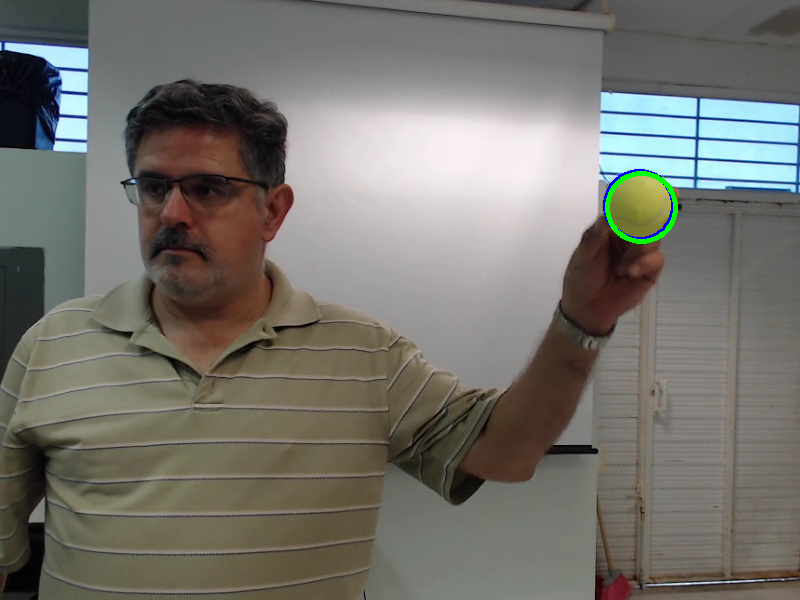
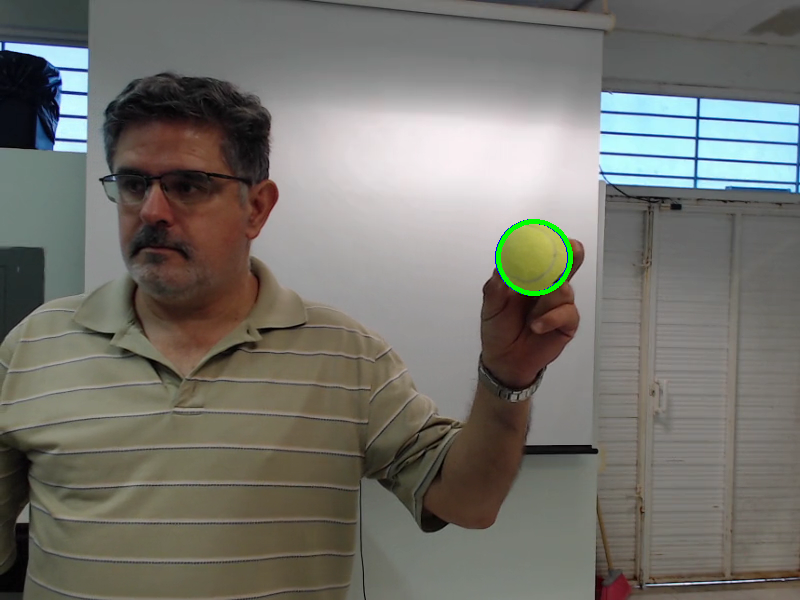
feat: included Z in KF as att

Changed region(s): [[0.0, 0.12, 0.875, 1.0]]

diff --git a/practice5-ball_tracking/practice5/lib/dayan/BallTrackingKalmanFilterExtendedImplicit.h b/practice5-ball_tracking/practice5/lib/dayan/BallTrackingKalmanFilterExtendedImplicit.h
@@ -5,12 +5,115 @@
 #ifndef BALLTRACKINGKALMANFILTEREXTENDEDIMPLICIT_H
 #define BALLTRACKINGKALMANFILTEREXTENDEDIMPLICIT_H
 
+#include "opencv2/opencv.hpp"
+#include "Config.h"
+#include "KalmanFilterExtendedImplicit.h"
+
 namespace dayan
 {
 
-	class BallTrackingKalmanFilterExtendedImplicit
+	class BallTrackingKalmanFilterExtendedImplicit : public KalmanFilterExtendedImplicit
 	{
+	public:
+		// Constructor
+		BallTrackingKalmanFilterExtendedImplicit()
+		{
+			Q = (cv::Mat_<float>(6, 6)
+				<<
+				1e-4, 0, 0, 0, 0, 0,
+				0, 1e-4, 0, 0, 0, 0,
+				0, 0, 1e-4, 0, 0, 0,
+				0, 0, 0, 1e-4, 0, 0,
+				0, 0, 0, 0, 1e-4, 0,
+				0, 0, 0, 0, 0, 1e-4
+			);
+			R = (cv::Mat_<float>(5, 5)
+				<<
+				10, 0, 0, 0, 0,
+				0, 10, 0, 0, 0,
+				0, 0, 10, 0, 0,
+				0, 0, 0, 10, 0,
+				0, 0, 0, 0, 10
+			);
+			P = (cv::Mat_<float>(6, 6)
+				<<
+				.1, 0, 0, 0, 0, 0,
+				0, .1, 0, 0, 0, 0,
+				0, 0, .1, 0, 0, 0,
+				0, 0, 0, .1, 0, 0,
+				0, 0, 0, 0, .1, 0,
+				0, 0, 0, 0, 0, .1
+			);
+		}
 
+		// Inicializa el primer estado a partir de la primera medida
+		void init_X() override
+		{
+			auto config = dayan::Config::getInstance();
+
+			auto x = this->Z.at<float>(0);
+			auto y = this->Z.at<float>(1);
+			auto r = this->Z.at<float>(4);
+
+			auto Z = config->radio / r;
+			auto X = x * Z;
+			auto Y = y * Z;
+
+			this->X = (cv::Mat_<float>(6, 1)
+				<<
+				X,
+				Y,
+				Z,
+				0,
+				0,
+				0
+			);
+		}
+		// Update Matrix A
+		void update_A(const int& dt) override
+		{
+			A = (cv::Mat_<float>(6, 6)
+				<<
+				1, 0, 0, dt, 0, 0,
+				0, 1, 0, 0, dt, 0,
+				0, 0, 1, 0, 0, dt,
+				0, 0, 0, 1, 0, 0,
+				0, 0, 0, 0, 1, 0,
+				0, 0, 0, 0, 0, 1
+			);
+		}
+	protected:
+		void update_h_H() override
+		{
+			auto config = dayan::Config::getInstance();
+
+			float X = this->Xp.at<float>(0);
+			float Y = this->Xp.at<float>(1);
+			float Z = this->Xp.at<float>(2);
+			float Xp = this->Xp.at<float>(3);
+			float Yp = this->Xp.at<float>(4);
+			float Zp = this->Xp.at<float>(5);
+
+			h = (cv::Mat_<float>(5, 1)
+				<<
+				X / Z,
+				Y / Z,
+				(Xp + (X / Z) * Zp) / Z,
+				(Yp + (Y / Z) * Zp) / Z,
+				config->radio / Z
+			);
+			auto Z2 = Z * Z;
+			auto Z3 = Z2 * Z;
+			auto Zp_Z2 = Zp / Z2;
+			H = (cv::Mat_<float>(5, 6)
+				<<
+				1 / Z, 0, -X / Z2, 0, 0, 0,
+				0, 1 / Z, -Y / Z2, 0, 0, 0,
+				Zp_Z2, 0, Xp / Z2 - 2 * (X * Zp + Z * Xp) / Z3, 1 / Z, 0, X / Z2,
+				0, Zp_Z2, Yp / Z2 - 2 * (Y * Zp + Z * Yp) / Z3, 0, 1 / Z, Y / Z2,
+				0, 0, -config->radio / Z2, 0, 0, 0
+			);
+		}
 	};
 
 } // dayan

diff --git a/practice5-ball_tracking/practice5/SegColorLab.cpp b/practice5-ball_tracking/practice5/SegColorLab.cpp
@@ -4,10 +4,11 @@
 #include "opencv2/opencv.hpp"
 #include "lib/arturo/functions.h"
 #include "lib/arturo/Circle/Circle.h"
-//#include "lib/dayan/tools.h"
+#include "lib/dayan/tools.h"
 #include "lib/dayan/Config.h"
 #include "lib/dayan/functions.h"
 #include "lib/dayan/BallTrackingKalmanFilterExtended.h"
+#include "lib/dayan/BallTrackingKalmanFilterExtendedImplicit.h"
 
 
 int main(int argc, char** argv)
@@ -45,6 +46,7 @@ int main(int argc, char** argv)
 
 	// KalmanFilter
 	dayan::BallTrackingKalmanFilterExtended kalmanFilter;
+//	dayan::BallTrackingKalmanFilterExtendedImplicit kalmanFilter;
 
 	int dt = 0;
 	int frameCount = -1;
@@ -58,8 +60,6 @@ int main(int argc, char** argv)
 
 		dt += config->dTimes[frameCount];
 		std::cout << "dt: " << dt << std::endl;
-		// Update Matrix A
-		kalmanFilter.update_A(dt);
 
 		// In the first iteration we initialize the images that we will use to store results.
 		if (0 == frameCount)
@@ -77,7 +77,6 @@ int main(int argc, char** argv)
 			arturo::convertLab(inputFrame, inputFrameLab);
 		}
 		Circle* c = nullptr;
-		cv::Mat Z;
 //		std::cout << "\033[1;32m" << "umDistVal: " << umDist.val << "\033[0m" << std::endl;
 //		std::cout << "\033[1;32m" << "umLuz.val: " << umLuz.val << "\033[0m" << std::endl;
 		dayan::makeMeasurement(
@@ -90,7 +89,7 @@ int main(int argc, char** argv)
 			contourPointMinCount,
 			error,
 			c,
-			Z,
+			kalmanFilter.Z,
 			dt
 		);
 		if (nullptr == c)
@@ -100,16 +99,15 @@ int main(int argc, char** argv)
 		}
 		//dayan::printMat(Z, "Z");
 		//dayan::drawCircle(inputFrame, c);
-		dayan::drawCircleByZ(inputFrame, Z, cv::Scalar(255, 0, 0));
+		dayan::drawCircleByZ(inputFrame, kalmanFilter.Z, cv::Scalar(255, 0, 0));
 
 		if (0 == frameCount)
 		{
-			kalmanFilter.init_X(Z);
-			//dayan::getX(Z, kalmanFilter.X);
+			kalmanFilter.init_X();
 		}
 		else
 		{
-			kalmanFilter.predict_correct(Z);
+			kalmanFilter.predict_correct(dt);
 //			dayan::printMat(kalmanFilter.X, "corrected");
 //			dayan::printMat(kalmanFilter.Xp, "predicted");
 			// predicted color red

diff --git a/practice5-ball_tracking/practice5/lib/dayan/BallTrackingKalmanFilterExtended.h b/practice5-ball_tracking/practice5/lib/dayan/BallTrackingKalmanFilterExtended.h
@@ -5,6 +5,7 @@
 #ifndef BALLTRACKINGKALMANFILTEREXTENDED_H
 #define BALLTRACKINGKALMANFILTEREXTENDED_H
 
+#include "opencv2/opencv.hpp"
 #include "Config.h"
 #include "KalmanFilterExtended.h"
 
@@ -17,7 +18,7 @@ namespace dayan
 		// Constructor
 		BallTrackingKalmanFilterExtended()
 		{
-			Q = (Mat_<float>(6, 6)
+			Q = (cv::Mat_<float>(6, 6)
 				<<
 				1e-4, 0, 0, 0, 0, 0,
 				0, 1e-4, 0, 0, 0, 0,
@@ -26,7 +27,7 @@ namespace dayan
 				0, 0, 0, 0, 1e-4, 0,
 				0, 0, 0, 0, 0, 1e-4
 			);
-			R = (Mat_<float>(5, 5)
+			R = (cv::Mat_<float>(5, 5)
 				<<
 				10, 0, 0, 0, 0,
 				0, 10, 0, 0, 0,
@@ -34,7 +35,7 @@ namespace dayan
 				0, 0, 0, 10, 0,
 				0, 0, 0, 0, 10
 			);
-			P = (Mat_<float>(6, 6)
+			P = (cv::Mat_<float>(6, 6)
 				<<
 				.1, 0, 0, 0, 0, 0,
 				0, .1, 0, 0, 0, 0,
@@ -43,19 +44,16 @@ namespace dayan
 				0, 0, 0, 0, .1, 0,
 				0, 0, 0, 0, 0, .1
 			);
-			//	dayan::printMat(Q, "Q");
-			//	dayan::printMat(R, "R");
-			//	dayan::printMat(P, "P");
 		}
 
 		// Inicializa el primer estado a partir de la primera medida
-		void init_X(const cv::Mat& ZZ)
+		void init_X() override
 		{
 			auto config = dayan::Config::getInstance();
 
-			auto x = ZZ.at<float>(0);
-			auto y = ZZ.at<float>(1);
-			auto r = ZZ.at<float>(4);
+			auto x = this->Z.at<float>(0);
+			auto y = this->Z.at<float>(1);
+			auto r = this->Z.at<float>(4);
 
 			auto Z = config->radio / r;
 			auto X = x * Z;
@@ -71,10 +69,10 @@ namespace dayan
 				0
 			);
 		}
-
-		void update_A(const int& dt)
+		// Update Matrix A
+		void update_A(const int& dt) override
 		{
-			A = (Mat_<float>(6, 6)
+			A = (cv::Mat_<float>(6, 6)
 				<<
 				1, 0, 0, dt, 0, 0,
 				0, 1, 0, 0, dt, 0,

diff --git a/practice5-ball_tracking/practice5/lib/dayan/KalmanFilterExtendedImplicit.h b/practice5-ball_tracking/practice5/lib/dayan/KalmanFilterExtendedImplicit.h
@@ -6,33 +6,19 @@
 #define KALMANFILTEREXTENDEDIMPLICIT_H
 
 #include "KalmanFilterExtended.h"
-#include "functions.h"
 
 namespace dayan
 {
 	// Implicit Extended Kalman Filter
-	class KalmanFilterExtendedImplicit : public dayan::KalmanFilterExtended
+	class KalmanFilterExtendedImplicit : public KalmanFilterExtended
 	{
 	public:
 		cv::Mat J; //!< Jacobian matrix h respecto a Z
 
-		void correct(const cv::Mat& Z) override
+		void correct() override
 		{
-//			dayan::getJ(Xp, J);
 			R = J * R * J.t();
-
-
-			cv::Mat h;
-			dayan::getH(Xp, h, H);
-			cv::Mat Ht = H.t();
-
-			cv::Mat HxPpxHtmR = H * Pp * Ht + R;
-			cv::Mat inv_HxPpxHtmR;
-			cv::invert(HxPpxHtmR, inv_HxPpxHtmR, cv::DECOMP_LU);
-			K = Pp * Ht * inv_HxPpxHtmR;
-			X = Xp + K * (Z - h);
-			cv::Mat I = cv::Mat::eye(6, 6, CV_32F);
-			P = (I - K * H) * Pp;
+			// TODO: completar
 		}
 	};
 } // dayan

diff --git a/practice5-ball_tracking/practice5/lib/dayan/KalmanFilter.h b/practice5-ball_tracking/practice5/lib/dayan/KalmanFilter.h
@@ -34,23 +34,31 @@ namespace dayan
 		// errorCovPost
 		cv::Mat P; //!< posteriori error estimate covariance matrix (P(k)): P(k)=(I-K(k)*H)*P'(k)
 
+		cv::Mat Z;
 		cv::Mat h;
 
-		void predict()
+		void predict(const int& dt)
 		{
+			this->update_A(dt);
 			Xp = A * X;
 			Pp = A * P * A.t() + Q;
 		}
 
-		virtual void correct(const cv::Mat& Z)
+		virtual void correct()
 		{
-			// TODO: Implement
 		}
 
-		void predict_correct(const cv::Mat& Z)
+		void predict_correct(const int& dt)
 		{
-			this->predict();
-			this->correct(Z);
+			this->predict(dt);
+			this->correct();
+		}
+		virtual void init_X()
+		{
+		}
+	protected:
+		virtual void update_A(const int& dt)
+		{
 		}
 	};
 

diff --git a/practice5-ball_tracking/practice5/lib/dayan/KalmanFilterExtended.h b/practice5-ball_tracking/practice5/lib/dayan/KalmanFilterExtended.h
@@ -15,7 +15,7 @@ namespace dayan
 	class KalmanFilterExtended : public KalmanFilter
 	{
 	public:
-		void correct(const cv::Mat& Z) override
+		void correct() override
 		{
 			update_h_H();
 			cv::Mat Ht = H.t();
